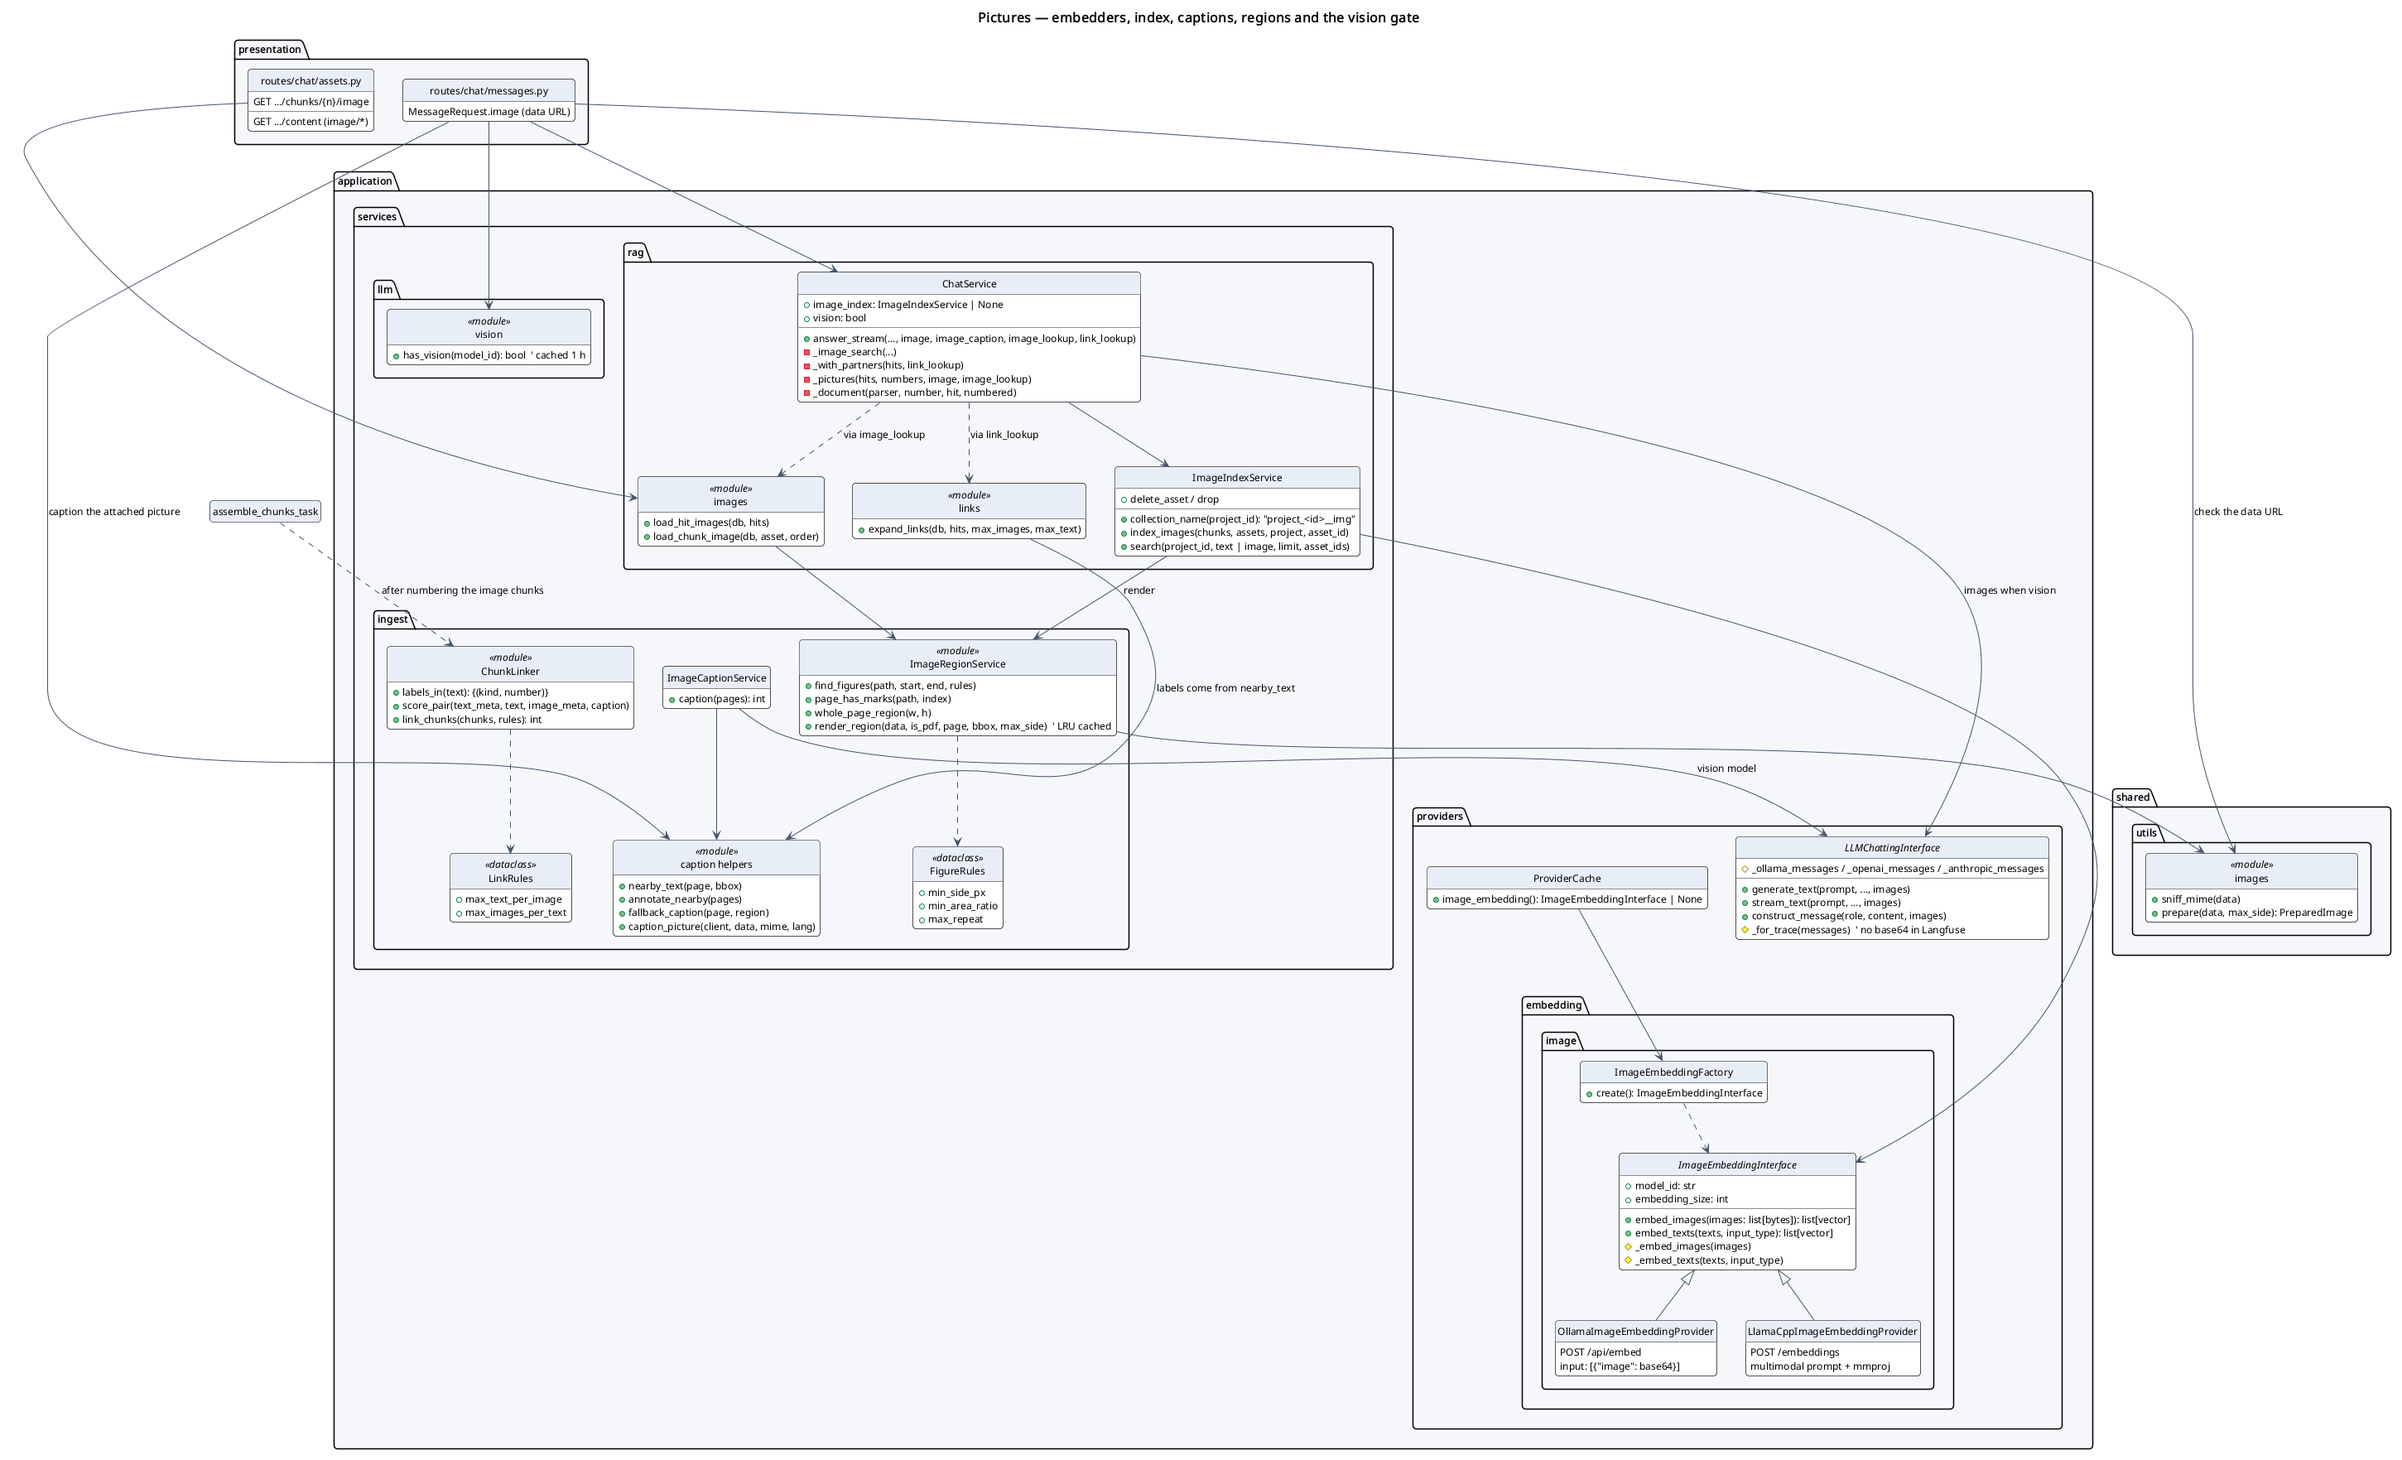
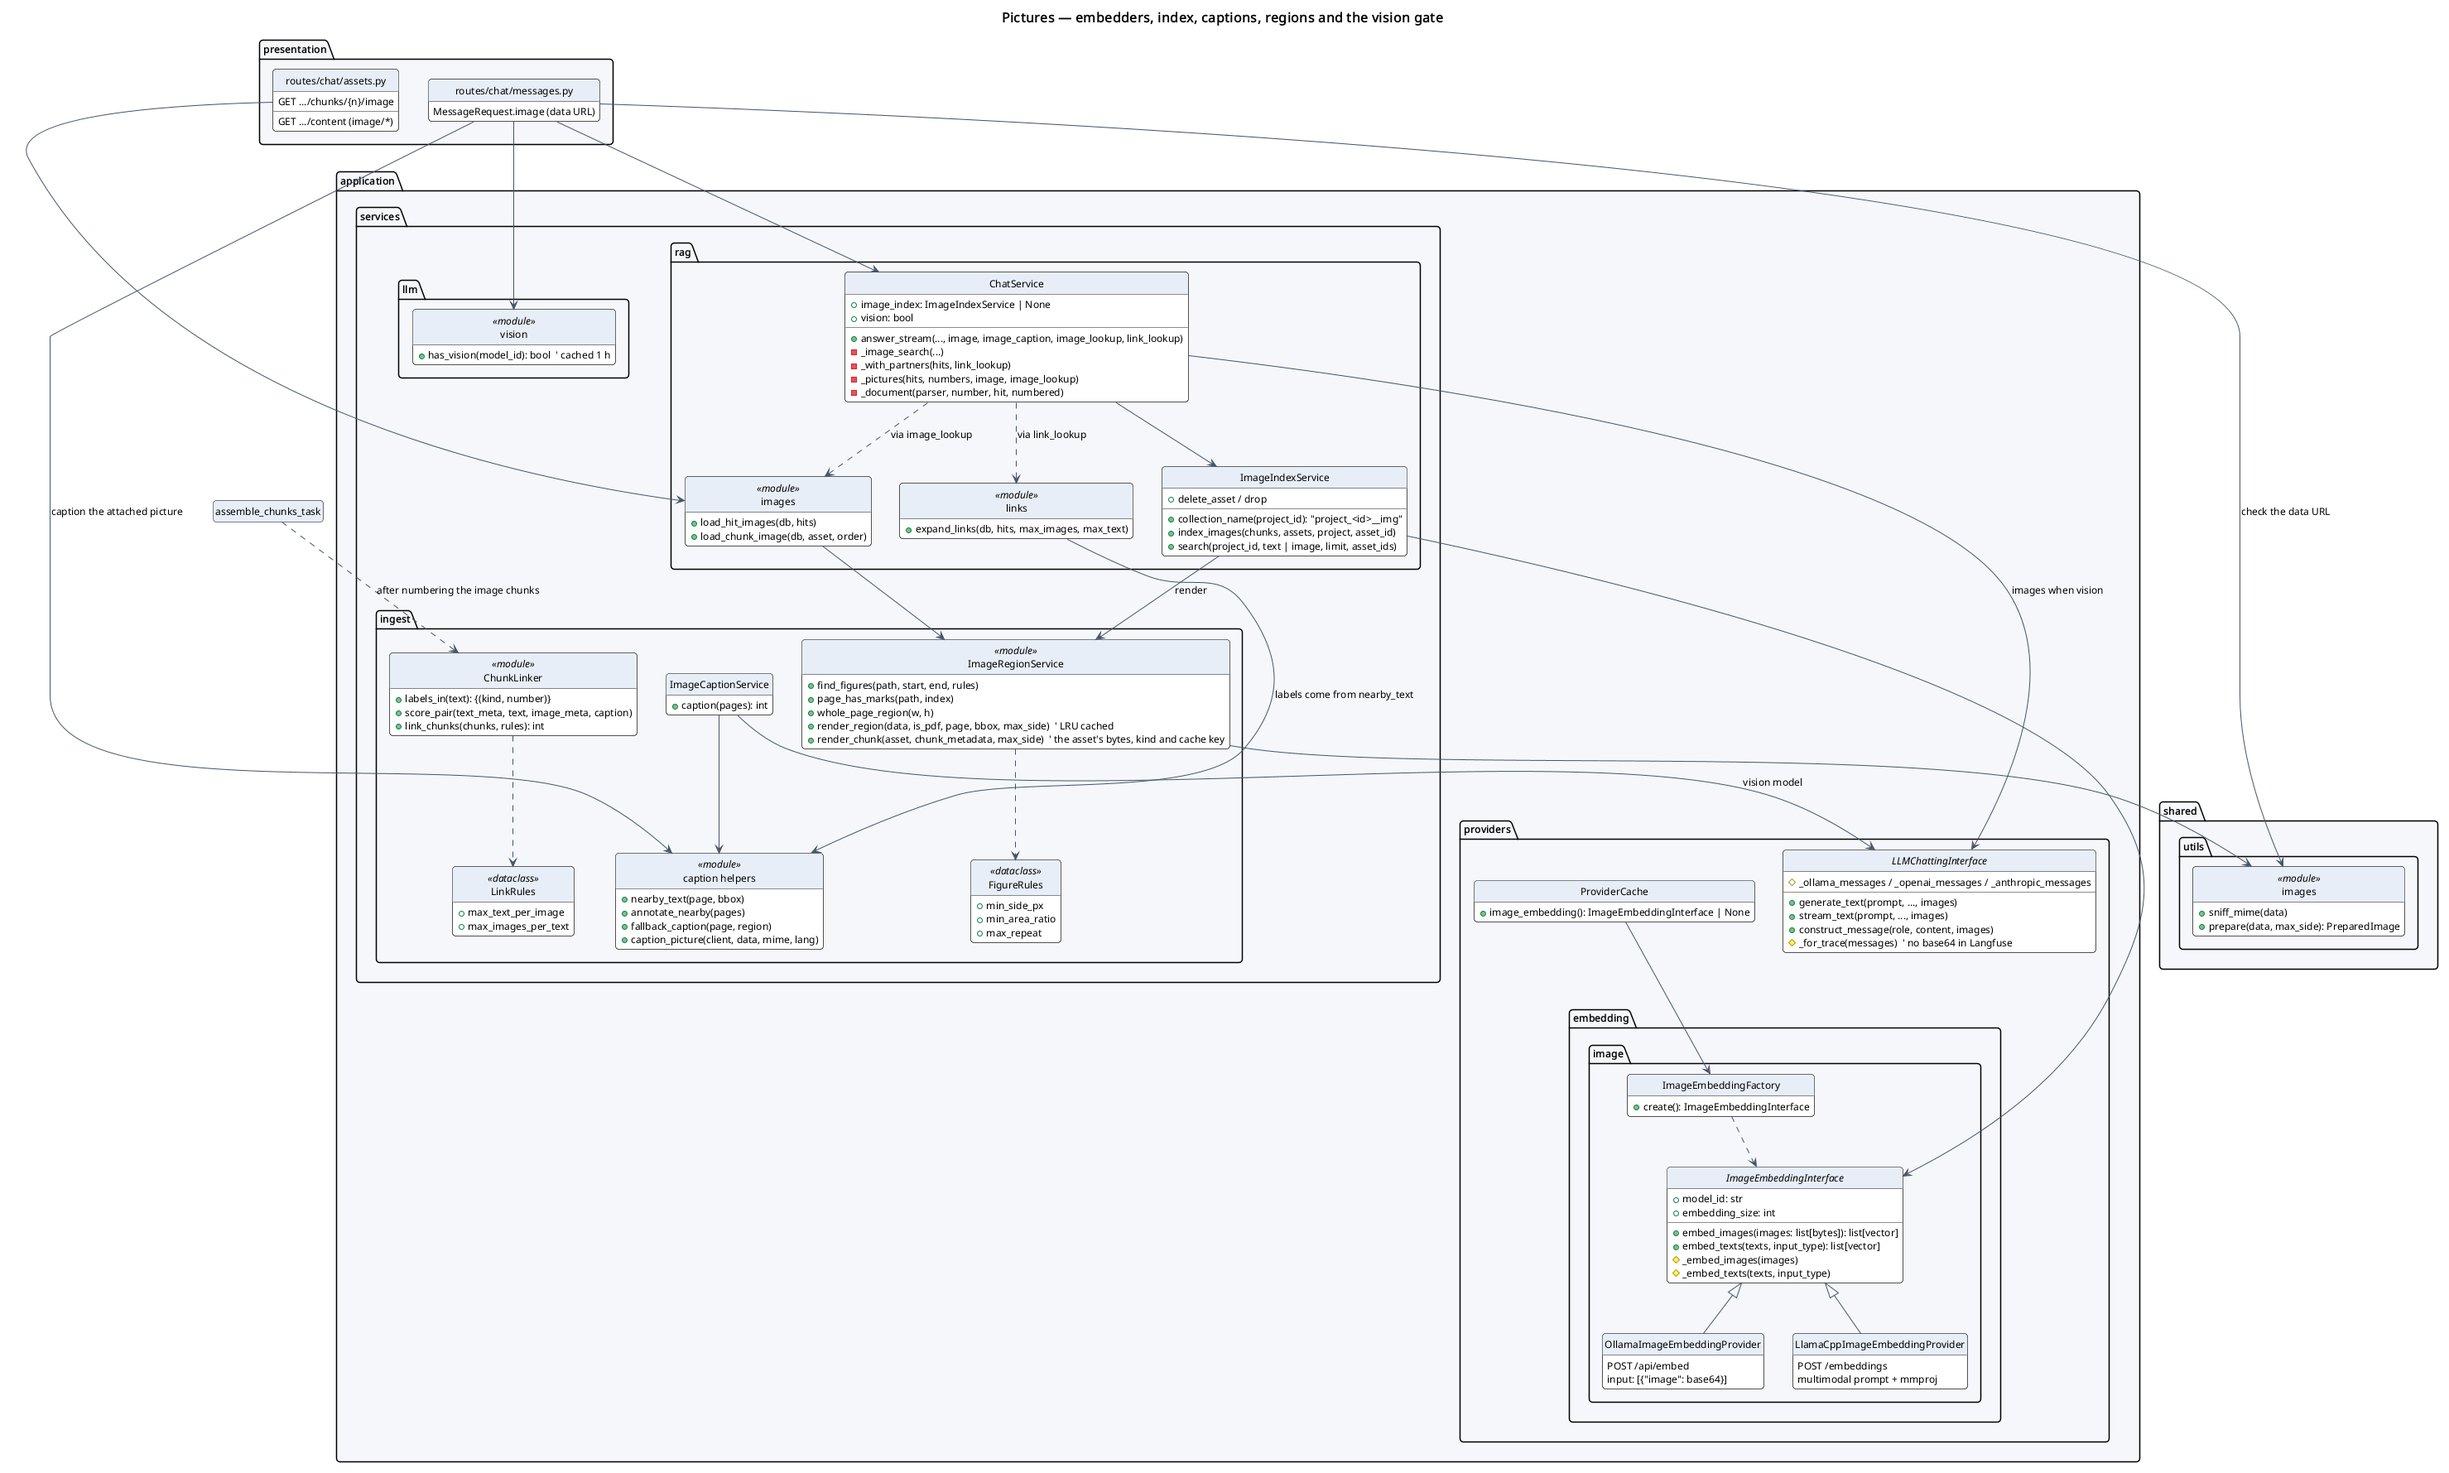
One way to render a stored asset's picture
ImageRegionService.render_asset_region / render_chunk hold what three callers each spelled out: whether the asset is a PDF or a picture, and which content hash the crop cache is keyed by. Used by the answer-time pictures, the image index and ingest captioning.

diff --git a/src/application/services/rag/images.py b/src/application/services/rag/images.py
@@ -11,27 +11,14 @@ from __future__ import annotations
 from collections import defaultdict
 
 from data.models import AssetModel, ChunkModel
-from shared.enums import AssetType
 from shared.utils import get_logger, get_settings
 
-from ..ingest.ImageRegionService import render_region
+from ..ingest.ImageRegionService import render_chunk
 from .citations import chunks_for_keys, keys_from_hits
 
 logger = get_logger(__name__)
 
 ImageMap = dict[tuple[str, int], tuple[bytes, str]]
-
-
-def _render(asset, chunk, max_side: int) -> tuple[bytes, str]:
-    metadata = chunk.chunk_metadata or {}
-    return render_region(
-        asset.file_bytes,
-        is_pdf=asset.asset_type != AssetType.IMAGE,
-        content_hash=asset.content_hash or asset.asset_id,
-        page_index=int(metadata.get("page", 0)),
-        bbox=metadata.get("bbox"),
-        max_side=max_side,
-    )
 
 
 async def load_hit_images(db, hits: list[dict], max_side: int | None = None) -> ImageMap:
@@ -66,7 +53,7 @@ async def load_hit_images(db, hits: list[dict], max_side: int | None = None) -> 
 
         for order, chunk in chunks:
             try:
-                images[(asset_id, order)] = _render(asset, chunk, max_side)
+                images[(asset_id, order)] = render_chunk(asset, chunk.chunk_metadata, max_side)
             except Exception as exc:  # noqa: BLE001
                 logger.warning("Could not render picture %s:%s: %s", asset_id, order, exc)
 
@@ -79,4 +66,4 @@ async def load_chunk_image(db, asset, chunk_order: int, max_side: int | None = N
     chunk = chunks.get(chunk_order)
     if chunk is None or (chunk.chunk_metadata or {}).get("kind") != "image":
         return None
-    return _render(asset, chunk, max_side or get_settings().IMAGE_MAX_SIDE_PX)
+    return render_chunk(asset, chunk.chunk_metadata, max_side or get_settings().IMAGE_MAX_SIDE_PX)

diff --git a/src/application/services/ingest/ImageRegionService.py b/src/application/services/ingest/ImageRegionService.py
@@ -23,6 +23,7 @@ from pathlib import Path
 
 import pymupdf  # ty: ignore[unresolved-import]
 
+from shared.enums import AssetType
 from shared.utils import get_logger
 from shared.utils.images import prepare
 
@@ -195,3 +196,26 @@ def render_region(
     """
     box = tuple(bbox or ())
     return _render_cached(content_hash, page_index, box, max_side, _Bytes(data, is_pdf, content_hash))
+
+
+def render_asset_region(asset, page_index: int, bbox: list[float] | None, max_side: int = 1024) -> tuple[bytes, str]:
+    """`render_region` for a stored asset: its bytes, its kind and its cache key.
+
+    The one place that knows an uploaded picture *is* its only region while
+    anything else is cut out of a PDF page, and that crops are cached under
+    the asset's content hash (so a re-upload of the same file reuses them).
+    """
+    return render_region(
+        asset.file_bytes,
+        is_pdf=asset.asset_type != AssetType.IMAGE,
+        content_hash=asset.content_hash or asset.asset_id,
+        page_index=page_index,
+        bbox=bbox,
+        max_side=max_side,
+    )
+
+
+def render_chunk(asset, chunk_metadata: dict | None, max_side: int = 1024) -> tuple[bytes, str]:
+    """The picture an image chunk shows, from the page and box its metadata records."""
+    metadata = chunk_metadata or {}
+    return render_asset_region(asset, int(metadata.get("page", 0)), metadata.get("bbox"), max_side)

diff --git a/src/application/services/rag/ImageIndexService.py b/src/application/services/rag/ImageIndexService.py
@@ -17,11 +17,11 @@ from collections import defaultdict
 
 from application.providers.embedding.image import ImageEmbeddingInterface
 from data.repositories.interfaces import VectorRepository
-from shared.enums import AssetType, EmbeddingInputType
+from shared.enums import EmbeddingInputType
 from shared.utils.images import InvalidImageError
 
 from ..core.BaseService import BaseService
-from ..ingest.ImageRegionService import render_region
+from ..ingest.ImageRegionService import render_chunk
 from .NLPService import NLPService
 
 #: Pictures sent to the embedder per request.
@@ -113,15 +113,7 @@ class ImageIndexService(BaseService):
         return {"collection": collection, "images_indexed": indexed, "images_skipped": skipped}
 
     def _render(self, asset, chunk) -> bytes:
-        metadata = chunk.chunk_metadata or {}
-        data, _ = render_region(
-            asset.file_bytes,
-            is_pdf=asset.asset_type != AssetType.IMAGE,
-            content_hash=asset.content_hash or asset.asset_id,
-            page_index=int(metadata.get("page", 0)),
-            bbox=metadata.get("bbox"),
-            max_side=self.settings.IMAGE_MAX_SIDE_PX,
-        )
+        data, _ = render_chunk(asset, chunk.chunk_metadata, self.settings.IMAGE_MAX_SIDE_PX)
         return data
 
     # --- reading --------------------------------------------------------------

diff --git a/src/application/tasks/jobs/ingest/postprocess.py b/src/application/tasks/jobs/ingest/postprocess.py
@@ -114,21 +114,10 @@ async def _correct(pages: list[dict], settings) -> int:
 
 def region_renderer(asset, max_side: int):
     """``render(page, region) -> (bytes, mime)`` over one asset's stored bytes."""
-    from application.services.ingest.ImageRegionService import render_region
-    from shared.enums import AssetType
-
-    is_pdf = asset.asset_type != AssetType.IMAGE
-    content_hash = asset.content_hash or asset.asset_id
+    from application.services.ingest.ImageRegionService import render_asset_region
 
     def render(page: dict, region: dict) -> tuple[bytes, str]:
-        return render_region(
-            asset.file_bytes,
-            is_pdf=is_pdf,
-            content_hash=content_hash,
-            page_index=page["page_index"],
-            bbox=region.get("bbox"),
-            max_side=max_side,
-        )
+        return render_asset_region(asset, page["page_index"], region.get("bbox"), max_side)
 
     return render
 
